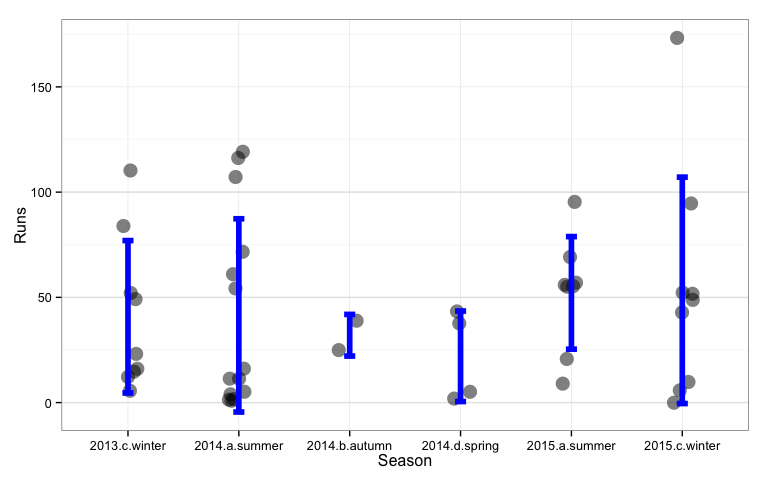
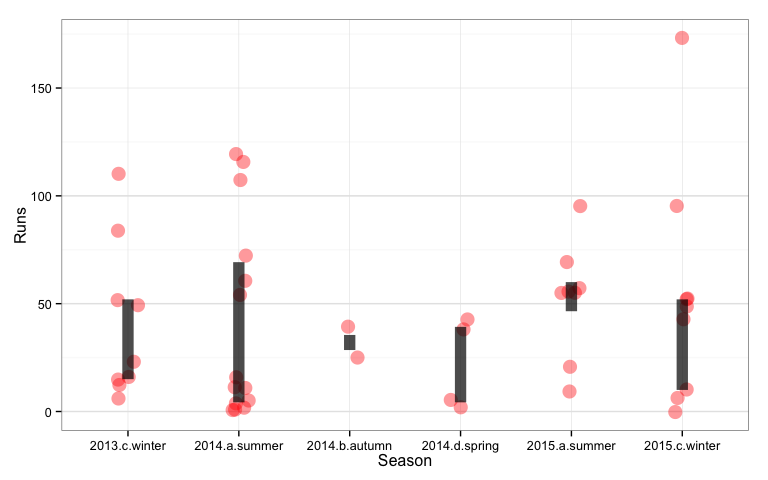
tweak last plot

diff --git a/_posts/2015-12-26-rogers.md b/_posts/2015-12-26-rogers.md
@@ -209,19 +209,19 @@ Rogers' strike rate increases with larger innings scores. It looks like at some 
 
 # Summary
 
-I recommend showing dotplots of the runs by season, instead of bar charts by index. Ideally overlaying summary statistics such as averages and standard deviations to simplify comparison across seasons. 
+I recommend showing dotplots of the runs by season, instead of bar charts by index. Ideally overlaying summary statistics such as averages and standard deviations to simplify comparison across seasons, or in the plot below the interquartile range, which shows the middle 50% of scores. 
 
 
 ```r
-seasonstats <- rogers2 %>% group_by(Season) %>% summarise(m=mean(Runs, na.rm=T), s=sd(Runs, na.rm=T))
+seasonstats <- rogers2 %>% group_by(Season) %>% summarise(m=median(Runs, na.rm=T), q1=quantile(Runs, 0.25, na.rm=T), q3=quantile(Runs, 0.75, na.rm=T))
 ggplot(data=rogers2) + 
   geom_hline(yintercept=100, colour="grey90") + 
   geom_hline(yintercept=50, colour="grey90") + 
   geom_hline(yintercept=0, colour="grey90") + 
-  geom_point(aes(x=Season, y=Runs), size=5, alpha=0.5, 
+  geom_point(aes(x=Season, y=Runs), size=5, alpha=0.4, colour="red",
       position = position_jitter(width = .1)) +
-  geom_errorbar(data=seasonstats, aes(x=Season, ymin=m-s, ymax=m+s), 
-                width=0.1, color="blue", size=2) +
+  geom_errorbar(data=seasonstats, aes(x=Season, ymin=q1, ymax=q3), 
+                width=0, alpha=0.7, color="black", size=4) +
   theme_bw()
 ```
 
